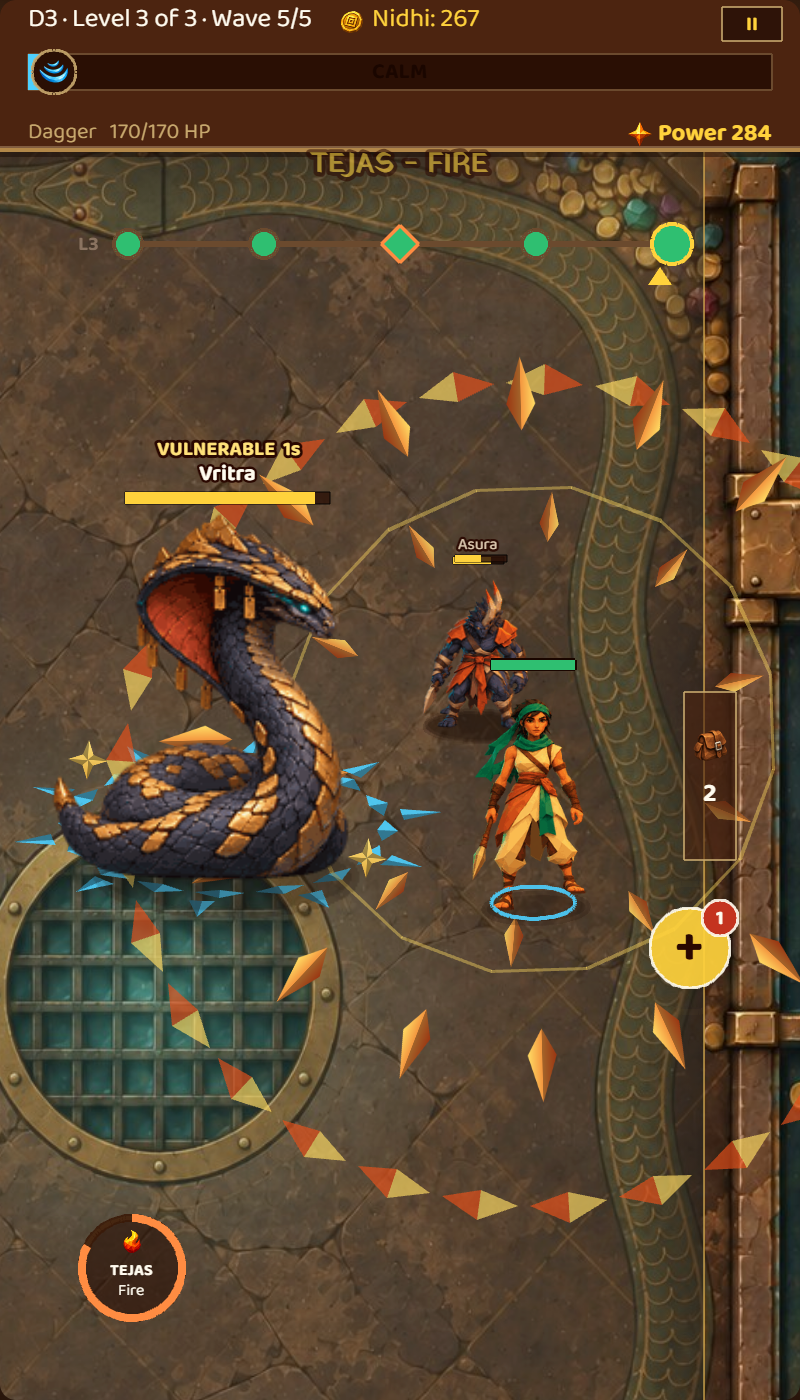
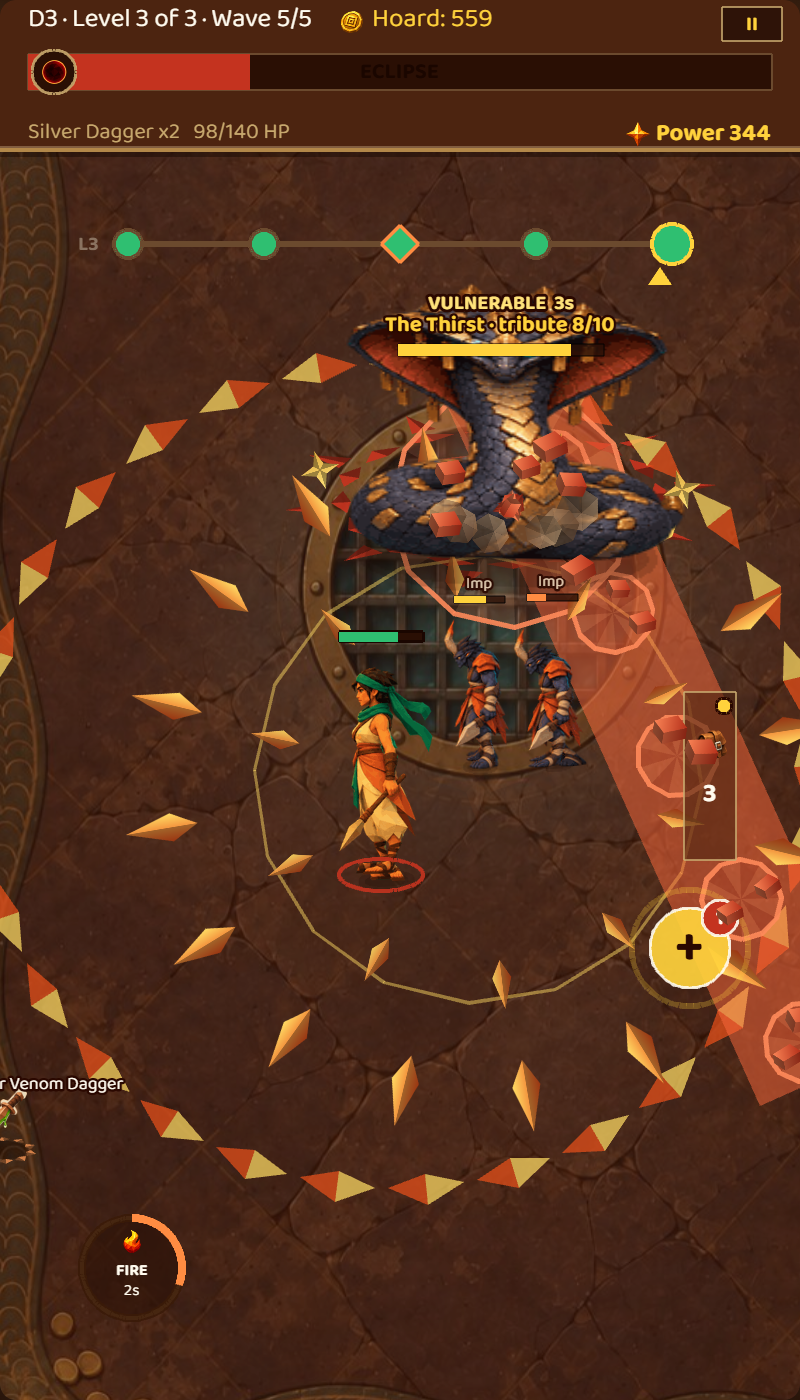
The store's pictures from build 0.23, with the new names; the GIF waits
Five screenshots and the cover from the 0.23 package. The GIF stays build
0.22's for now (old names): a film taken while the PC was busy came out at
two to six frames a second, and is to be taken again.

diff --git a/docs/itch-page.md b/docs/itch-page.md
@@ -1,6 +1,6 @@
 # The itch.io page: what to upload, what to paste, what to tick
 
-Prepared 2026-10-10 for build 0.9 and rebuilt the same day as 0.13 with the teaching pauses and the free rides closed (launch track L9, `design-document.md` §1.2). **Made again on 2026-10-14 from build 0.22, Version Beta: the zip, the five screenshots, the GIF and the cover, all showing the founder's cast, floors and icons.** Everything
+Prepared 2026-10-10 for build 0.9 and rebuilt the same day as 0.13 with the teaching pauses and the free rides closed (launch track L9, `design-document.md` §1.2). **Made again on 2026-10-14 from build 0.23, Version Beta: the zip, the five screenshots and the cover, with the founder's cast, floors and icons and the new names. The GIF is still build 0.22's and shows the old names (Asura, Nidhi, the Tejas button): it is to be made again when the PC is not busy, since a film taken under load came out at two to six frames a second.** Everything
 here is ready to use except where it says otherwise. The upload itself is the founder's:
 creating the itch.io account and signing in cannot be done for them.
 
@@ -34,14 +34,14 @@ cannot be changed later without breaking every link sent.
 
 | File | What it is | Where it goes |
 |---|---|---|
-| `dist/anantarya-0.22-itch.zip` | The game: 127 files, 9.55 MB. Made by `python tools/build-itch.py` | Uploads |
+| `dist/anantarya-0.23-itch.zip` | The game: 127 files, 9.55 MB. Made by `python tools/build-itch.py` | Uploads |
 | `store/itch/cover-draft.png` | Cover, 630 by 500. **A draft: it carries the working title** | Cover image |
 | `store/itch/1-title.png` | The title screen, the well part filled | Screenshots, in this order |
-| `store/itch/2-drowned-steps.png` | A pack of imps on level 2, the flooded landing | |
-| `store/itch/3-hoard-guardian.png` | The Hoard Guardian under his dome, slams landing, on level 1 | |
+| `store/itch/2-drowned-steps.png` | Brutes, Hexers and imps on level 2, the flooded landing | |
+| `store/itch/3-hoard-guardian.png` | The Hoard Guardian under his dome, held by its anchors, on level 1 | |
 | `store/itch/4-vritra.png` | Overdrive (fire) bursting round The Thirst on level 3 | |
 | `store/itch/5-boons.png` | Choosing a boon | |
-| `store/itch/gameplay.gif` | Five seconds of a level 1 fight, 240 by 420, 1.8 MB | In the description, above the first line |
+| `store/itch/gameplay.gif` | Five seconds of a level 1 fight, 240 by 420, 1.8 MB. **Build 0.22, old names: to be made again** | In the description, above the first line |
 
 The zip holds the game page as `index.html`, the sprites and sounds, the engine and the
 two typefaces with their licences, and a credits file. It does not hold the music, which
